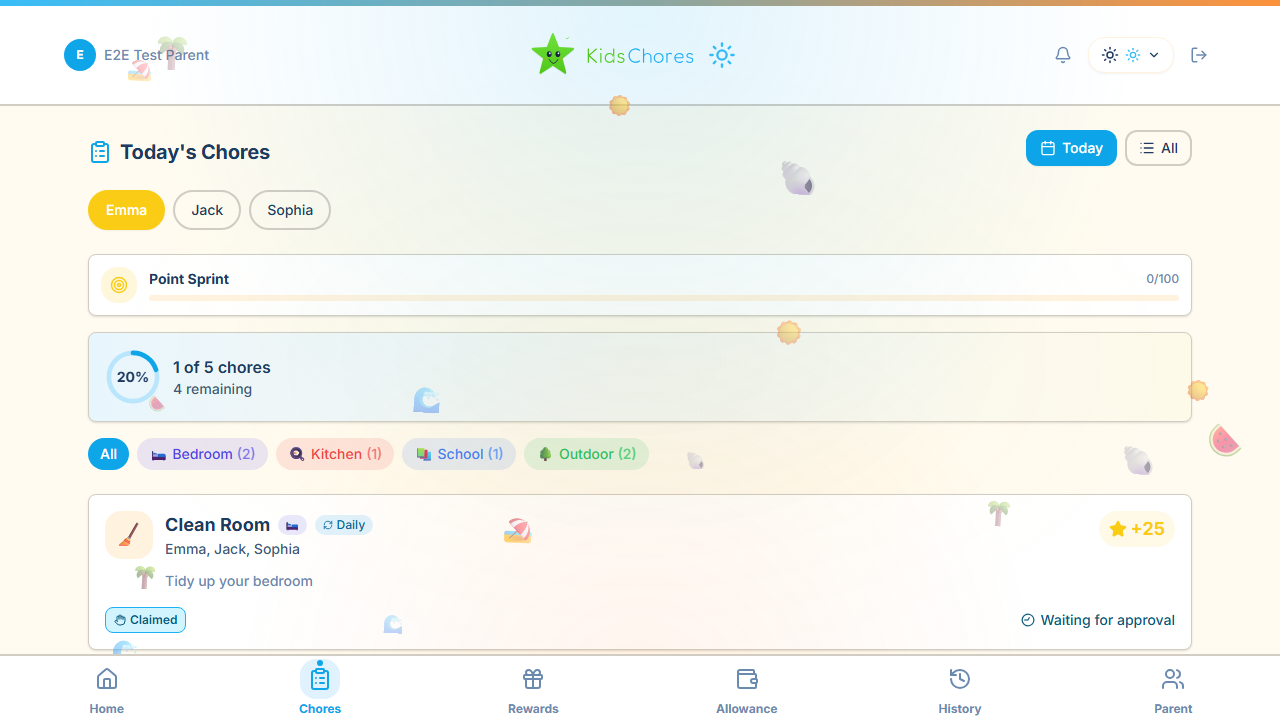
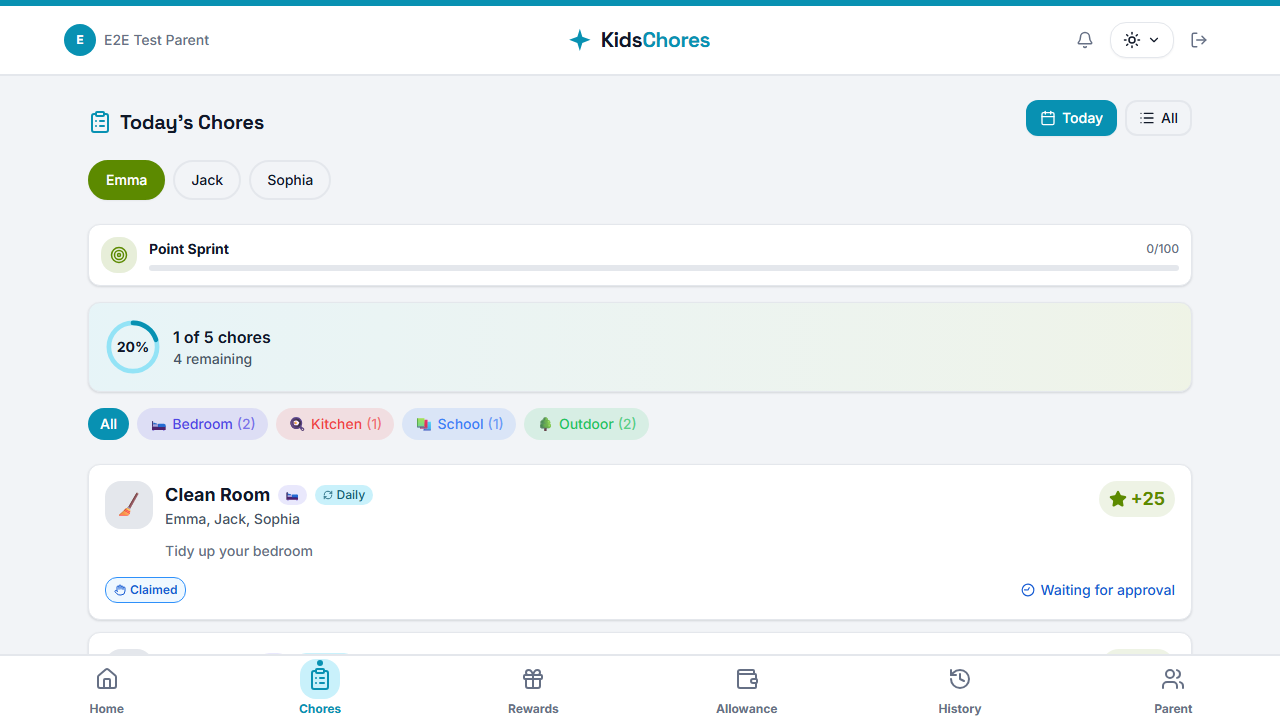
release: v0.10.0 — Midnight + Electric redesign
VERSION/package.json/main.py -> 0.10.0; CHANGELOG entry; README badge +
feature list (seasonal bullet -> design system); SECURITY.md 0.10.x;
all 26 README screenshots recaptured at the new design (incl. the
onboarding/login sets stale since v0.7.9).

diff --git a/backend/app/main.py b/backend/app/main.py
@@ -65,7 +65,7 @@ async def lifespan(app: FastAPI):
 app = FastAPI(
     title="KidsChores",
     description="Family chore management with points and rewards",
-    version="0.9.0",  # Keep in sync with VERSION file
+    version="0.10.0",  # Keep in sync with VERSION file
     lifespan=lifespan,
     redirect_slashes=False,  # Prevent 307 redirects for /api/kids vs /api/kids/
 )

diff --git a/README.md b/README.md
@@ -6,7 +6,7 @@
 </p>
 
 <p align="center">
-  <a href="https://github.com/misterberns/kidschores/releases"><img src="https://img.shields.io/badge/Version-v0.9.0-green?style=flat-square" alt="Version"></a>
+  <a href="https://github.com/misterberns/kidschores/releases"><img src="https://img.shields.io/badge/Version-v0.10.0-green?style=flat-square" alt="Version"></a>
   <a href="https://github.com/misterberns/kidschores/actions/workflows/ci.yml"><img src="https://github.com/misterberns/kidschores/actions/workflows/ci.yml/badge.svg" alt="CI"></a>
   <img src="https://img.shields.io/badge/Status-Active-brightgreen?style=flat-square" alt="Status">
   <img src="https://img.shields.io/badge/License-GPL%203.0-blue?style=flat-square" alt="License">
@@ -41,7 +41,7 @@
 - **Kid Avatars** - Per-kid emoji + color picker
 - **Google SSO** - Parents and kids sign in with Google (optional)
 - **Email Notifications** - Parents notified on chore claims and reward redemptions
-- **Seasonal Themes** - Halloween, Christmas, Easter, Summer, and default themes
+- **Midnight + Electric design** - Dark-first, sleek theme system with a light variant; per-kid accent colors, ring progress, metal-tier badge art
 - **Mobile-Responsive** - Works on phones, tablets, and desktops
 - **Security** - JWT auth (PyJWT) on all endpoints, rate limiting, bcrypt hashing, CORS restriction, unprivileged nginx, locked-down proxy trust
 - **Error Handling** - React error boundaries, global error handler, auto-toast notifications
@@ -329,4 +329,4 @@ Contributions are welcome! See [CONTRIBUTING.md](CONTRIBUTING.md) for guidelines
 
 ## Version
 
-Current version: **0.9.0** (see [CHANGELOG.md](CHANGELOG.md) for history)
+Current version: **0.10.0** (see [CHANGELOG.md](CHANGELOG.md) for history)

diff --git a/CHANGELOG.md b/CHANGELOG.md
@@ -7,6 +7,34 @@ and this project adheres to [Semantic Versioning](https://semver.org/spec/v2.0.0
 
 ## [Unreleased]
 
+## [0.10.0] - 2026-07-11
+
+### Changed — "Midnight + Electric" redesign
+
+A ground-up visual redesign: modern and sleek, still made for kids — no longer
+a children's game. Dark is now the flagship theme and the default.
+
+- **Dark-first design system**: deep blue-charcoal surfaces, one electric-cyan
+  hero accent, volt green for points; a derived cool-light variant remains for
+  bright rooms (theme toggle unchanged)
+- **Per-kid accent colors** replace the rainbow gradient cards: each kid's hue
+  now lives in the card edge, avatar ring, numerals, and progress ring
+- **Ring progress**: today's progress renders as a conic ring in the kid's
+  accent on Home and Chores
+- **New typography**: Space Grotesk display face for headings and the big
+  point/streak numbers (tabular)
+- **Grown-up gamification art**: badges and levels on bronze/silver/gold
+  metal chips (legendary glows), streaks as a gradient flame, celebrations
+  restrained to a 5-color brand burst
+- **New logo**: a clean geometric spark replaces the Chorbie mascot
+  (favicons updated to match)
+
+### Removed
+- The Chorbie mascot (all screens)
+- Seasonal themes, floating emoji particles, and holiday banners
+- Emoji avatars (kids now get an initial in their accent ring; the per-kid
+  color picker remains)
+
 ## [0.9.0] - 2026-07-11
 
 Gamification release: the badges & challenges engine — plus the security-hardening and full test infrastructure that landed since 0.8.2.

diff --git a/SECURITY.md b/SECURITY.md
@@ -4,8 +4,8 @@
 
 | Version | Supported |
 |---------|-----------|
-| 0.9.x   | Yes       |
-| < 0.9   | No        |
+| 0.10.x  | Yes       |
+| < 0.10  | No        |
 
 ## Reporting a Vulnerability
 
